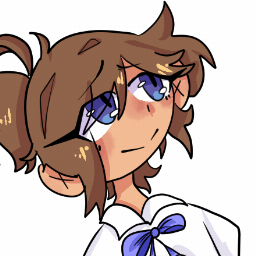
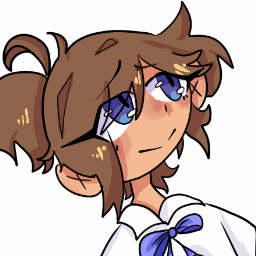
Some fixes to auto-cropping portraits

diff --git a/scripts/create_portraits.php b/scripts/create_portraits.php
@@ -53,7 +53,6 @@ foreach ($iterator as $fileInfo) {
         continue;
     }
 
-    echo "Processing $characterId\n";
     $image = imagecreatefrompng($filename);
     if (!$image) {
         echo " Error loading $filename\n";
@@ -61,27 +60,32 @@ foreach ($iterator as $fileInfo) {
     }
 
     list($width, $height) = getimagesize($filename);
+    echo "Processing $characterId ($width x $height)\n";
     list($centerXPercentage, $centerYPercentage) = $character['portrait'];
     $centerX = floor($centerXPercentage * $width);
     $centerY = floor($centerYPercentage * $height);
-
     $cropSize = $centerY * 2;
+
     // Expand horizontally if needed
-    if ($width < $cropSize) {
-        echo " Expanding width from $width to $cropSize\n";
-        $expanded = imagecreatetruecolor($cropSize, $cropSize);
+    $overflowLeft = floor($cropSize / 2) - $centerX;
+    $overflowRight = $centerX + floor($cropSize / 2) - $width;
+    if ($overflowLeft > 0 || $overflowRight > 0) {
+        $offset = $overflowLeft > 0 ? $overflowLeft : 0;
+        $overflow = max($overflowLeft, $overflowRight);
+        $cropWidth = $width + $overflow * 2;
+        echo " Expanding width from $width to $cropWidth\n";
+        $expanded = imagecreatetruecolor($cropWidth, $height);
         imagealphablending($expanded,false);
         imagesavealpha($expanded,true);
         $alpha = imagecolorallocatealpha($expanded, 0, 0, 0, 127);
-        imagefilledrectangle($expanded, 0, 0, $cropSize, $height, $alpha);
+        imagefilledrectangle($expanded, 0, 0, $cropWidth, $height, $alpha);
         // Center image
-        $destinationX = ($cropSize - $width) / 2;
+        $destinationX = ($cropWidth - $width) / 2;
         imagecopy($expanded, $image, $destinationX, 0, 0, 0, $width, $height);
         $image = $expanded;
-        $width = $cropSize;
-        $centerX = floor($centerXPercentage * $width);
+        $width = $cropWidth;
+        $centerX += $offset;
     }
-
     $cropX = $centerX - floor($cropSize / 2);
     $cropY = $centerY - floor($cropSize / 2);
 
